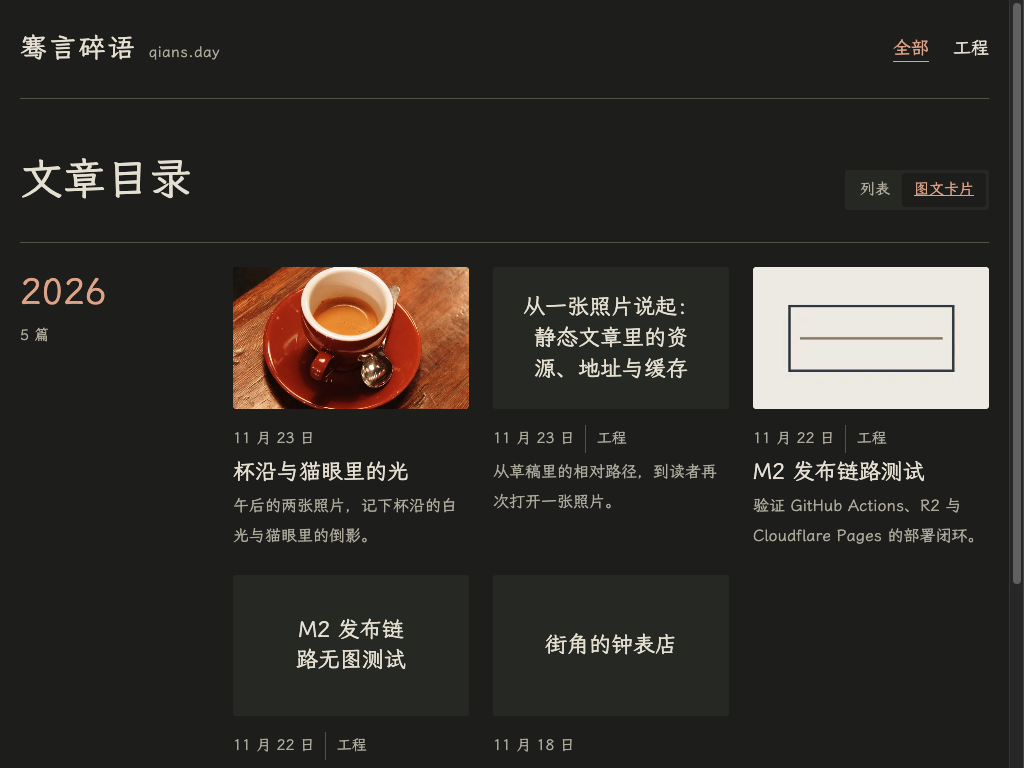
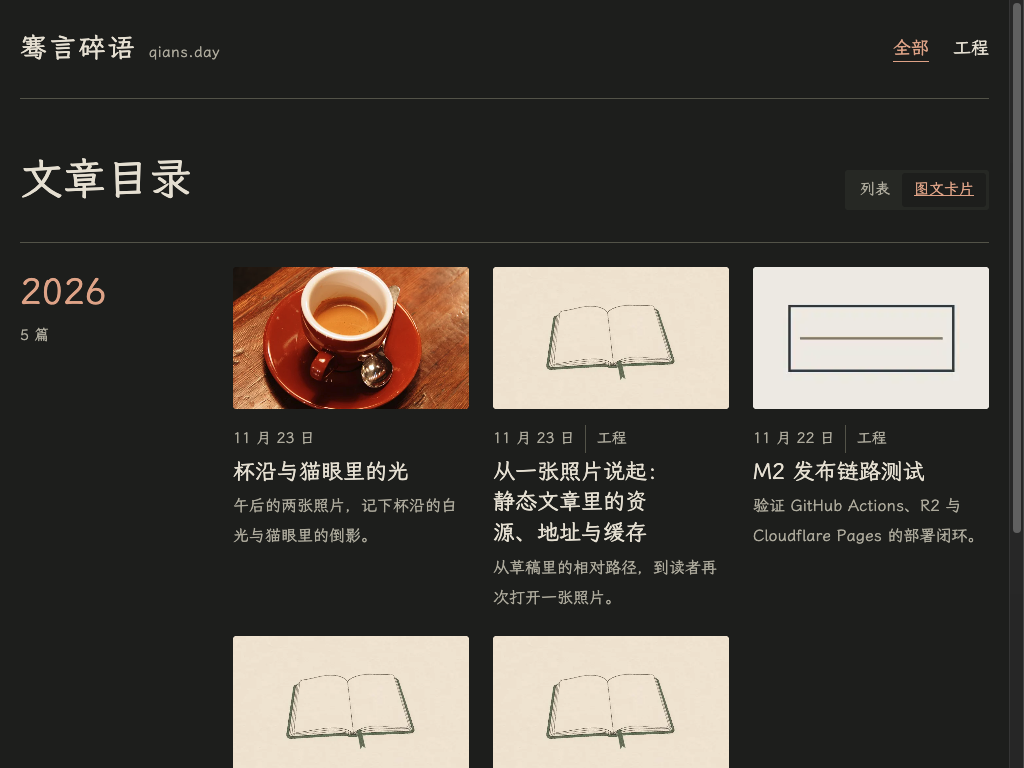
fix: restore the shared cover for posts without images

diff --git a/docs/m4.2/README.md b/docs/m4.2/README.md
@@ -7,7 +7,7 @@
 | 阅读场景 | 桌面或平板 | 手机 |
 | --- | --- | --- |
 | 首页篇目 | [正式内容 · 1440 浅色](screenshots/published-1440-light.png) · [含样稿 · 1440 浅色](screenshots/list-1440-light.png) | [390 浅色](screenshots/list-390-light.png) |
-| 首图与文字封面 | [1440 浅色](screenshots/cards-1440-light.png) · [1024 深色](screenshots/cards-1024-dark.png) | [375 深色](screenshots/cards-375-dark.png) |
+| 首图与默认占位图 | [1440 浅色](screenshots/cards-1440-light.png) · [1024 深色](screenshots/cards-1024-dark.png) | [375 深色](screenshots/cards-375-dark.png) |
 | 技术长标题与目录 | [1440 三栏](screenshots/tech-1440-light.png) · [1024 双栏](screenshots/tech-1024-light.png) · [768 单栏](screenshots/tech-768-dark.png) | [390 首屏](screenshots/tech-390-light.png) · [375 代码与表格](screenshots/tech-375-dark.png) |
 | 连续阅读与图注 | [长篇随笔 · 1440 深色](screenshots/essay-1440-dark.png) | [生活图文 · 390 深色](screenshots/life-390-dark.png) |
 

diff --git a/README.md b/README.md
@@ -49,7 +49,7 @@ status: draft
 
 Remark 在 Astro 收集静态资源前将图片地址改写为 `https://site-cdn.qians.day/posts/<articleId>/<filename>`。正文和卡片共用这个结果。预览其他 CDN 时可在构建前设置 `MEDIA_BASE_URL`。
 
-无图文章使用标题排成的文字封面。独占一段的 Markdown 图片可用可选 title 写图注，例如 `![画面说明](./assets/<name>-<hash>.webp "摄影署名")`。
+无图文章使用共享占位图 `media/site/card-placeholder.webp`。所有图文卡片按 5∶3 展示封面，日期、标题和摘要排列在封面下方。独占一段的 Markdown 图片可用可选 title 写图注，例如 `![画面说明](./assets/<name>-<hash>.webp "摄影署名")`。
 
 ## 检查与发布
 
